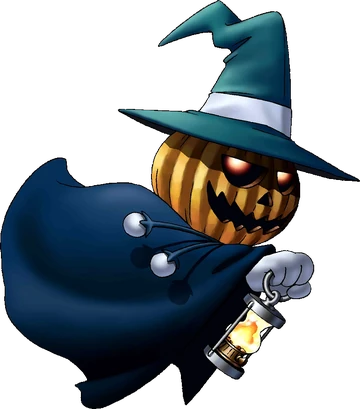
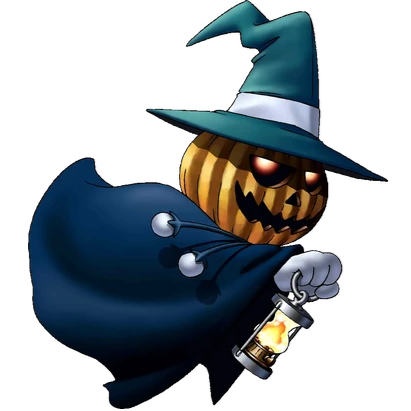
Very large Jump in visuals. Sized the photos correctly for the squares. Added a display for the hoverd piece Added logic for a failover photo.

diff --git a/js/game.js b/js/game.js
@@ -12,27 +12,30 @@ export class Game {
         this.player1 = new Player("Aaron", 1);
         this.player2 = new Player("Ashton", 2);
         this.turn = this.player1;
-
+        
         //create callback methods
         this.highlightCell = null;
         this.unhighlightCell = null;
-        this.drawBoard = null;
+        this.updateBoard = null;
         this.updateTurnDisplay = null;
         //method calls
-        this.initializeBoard();
-
+        
+        
         //log messages
         
         
-        console.log("Creating Board")
-        console.log("Creating Player 1")
-        console.log("Creating Plaer 2")
+        //console.log("Creating Board")
+        //console.log("Creating Player 1")
+        //console.log("Creating Plaer 2")
     }
     //Random Properties
     #selectedCell = [];
     #currentlySelected = false;
-
-
+    
+    initialize() {
+        this.updateTurnDisplay(this.turn)
+        this.initializeBoard();
+    }
 
     //method declarations
 
@@ -41,12 +44,59 @@ export class Game {
     }
 
     initializeBoard() {
+        //player 1 backrow
+        this.board.createPiece("Slime", this.player1, [0,0]);
+        this.board.createPiece("Saki Mitama", this.player1, [0,1]);
+        this.board.createPiece("Pyro Jack", this.player1, [0,2]);
+        this.board.createPiece("Preta", this.player1, [0,3]);
+        this.board.createPiece("Pixie", this.player1, [0,4]);
+        this.board.createPiece("Nigi Mitama", this.player1, [0,5]);
+        this.board.createPiece("Mokoi", this.player1, [0,6]);
+        this.board.createPiece("Mandrake", this.player1, [0,7]);
+        //player 1 front row
+        this.board.createPiece("Lilim", this.player1, [1,0]);
+        this.board.createPiece("Kusi Mitama", this.player1, [1,1]);
+        this.board.createPiece("Jack Frost", this.player1, [1,2]);
+        this.board.createPiece("Hua Po", this.player1, [1,3]);
+        this.board.createPiece("Black Ooze", this.player1, [1,4]);
+        this.board.createPiece("Ara Mitama", this.player1, [1,5]);
+        this.board.createPiece("Angel", this.player1, [1,6]);
+        this.board.createPiece("Ame-no-Uzume", this.player1, [1,7]);
+
+
+
+
+        //player 2 front row
+        this.board.createPiece("Lucifer", this.player2, [6,0]);
+        this.board.createPiece("Lucifer", this.player2, [6,1]);
+        this.board.createPiece("Lucifer", this.player2, [6,2]);
+        this.board.createPiece("Lucifer", this.player2, [6,3]);
+        this.board.createPiece("Lucifer", this.player2, [6,4]);
+        this.board.createPiece("Lucifer", this.player2, [6,5]);
+        this.board.createPiece("Lucifer", this.player2, [6,6]);
+        this.board.createPiece("Lucifer", this.player2, [6,7]);
+        //player 2 backrow
+        this.board.createPiece("Lucifer", this.player2, [7,0]);
+        this.board.createPiece("Lucifer", this.player2, [7,1]);
+        this.board.createPiece("Lucifer", this.player2, [7,2]);
+        this.board.createPiece("Lucifer", this.player2, [7,3]);
+        this.board.createPiece("Lucifer", this.player2, [7,4]);
+        this.board.createPiece("Lucifer", this.player2, [7,5]);
+        this.board.createPiece("Lucifer", this.player2, [7,6]);
+        this.board.createPiece("Lucifer", this.player2, [7,7]);
+
+
+
+        /*////Old game creation logic. Keeping as a fallback
         for (let row = 0; row < 2; row++) {
             for (let column = 0; column < 8; column++) {
                 this.board.createPiece("Lucifer", this.player1, [row,column]);
                 this.board.createPiece("Succubus", this.player2, [7-row,column]);
             }
         }
+            */
+
+        this.updateBoard();
     }
 
 
@@ -154,6 +204,7 @@ export class Game {
 
 
     }
+
     changeTurn() {
         this.turn = this.turn == this.player1 ? this.player2 : this.player1
         this.updateTurnDisplay(this.turn);

diff --git a/js/display.js b/js/display.js
@@ -5,6 +5,11 @@ export class Display {
     this.color2 = "white"
     this.chessBoard = document.getElementById(element)
     this.turnDisplay = document.getElementById("turnDisplay")
+    this.hoveredPieceNameDisplay = document.getElementById("hoveredPieceNameDisplay")
+    this.hoveredPieceAttackDisplay = document.getElementById("hoveredPieceAttackDisplay")
+    this.hoveredPieceResistDisplay = document.getElementById("hoveredPieceResistDisplay")
+    this.hoveredPieceWeaknessDisplay = document.getElementById("hoveredPieceWeaknessDisplay")
+    this.hoveredPieceDescriptionDisplay = document.getElementById("hoveredPieceDescriptionDisplay")
     this.boardSize = 700;
     this.onCellClick = null;
     this.board = board
@@ -85,12 +90,58 @@ export class Display {
           let pieceTier = currentPiece.type.Tier;
           let pieceType = currentPiece.type.Tier;
           let pieceIcon = `./img/SMT Demons/Rank ${pieceTier}/${pieceName}.png`
-          console.log(pieceIcon)
           let piece = document.createElement("div");
+
+
           //styles the piece
           piece.classList.add("piece")
           piece.classList.add("player" + currentPiece.player.id)
-          piece.style.backgroundImage = `url("${pieceIcon}")`
+          
+          
+          //Sets up Hover Events
+          cell.addEventListener("mouseenter", (event) => {
+            let location = []
+            location[0] = event.currentTarget.id[0]
+            location[1] = event.currentTarget.id[2]
+            let hoveredPiece = this.board.getPiece(location)
+            this.hoveredPieceNameDisplay.innerText = "Name: " + hoveredPiece.type.Name
+            this.hoveredPieceAttackDisplay.innerText = "Attack Type:" + hoveredPiece.type.Attack_Type
+            this.hoveredPieceResistDisplay.innerText = "Resistance: " + hoveredPiece.type.Resistance
+            this.hoveredPieceWeaknessDisplay.innerText = "Weakness: " + hoveredPiece.type.Weakness
+            this.hoveredPieceDescriptionDisplay.innerText = "Description: " + hoveredPiece.type.Description
+          })  
+
+
+
+          cell.addEventListener("mouseleave", () => {
+            this.hoveredPieceNameDisplay.innerText = "Name:"
+            this.hoveredPieceAttackDisplay.innerText = "Attack Type:"
+            this.hoveredPieceResistDisplay.innerText = "Resistance: "
+            this.hoveredPieceWeaknessDisplay.innerText = "Weakness: "
+            this.hoveredPieceDescriptionDisplay.innerText = "Description: "
+          })  
+
+          
+
+          
+
+
+
+
+
+          //preLoads the image to make sure that it works before setting the image. If it doesnt work then you get the default pawn image.
+          const img = new Image();
+            img.onload = () => {
+              // file exists, safe to use
+              piece.style.backgroundImage = `url("${pieceIcon}")`;
+            };
+            img.onerror = () => {
+              // file not found, use fallback
+              piece.style.backgroundImage = `url("./img/SMT Demons/Rank 1/Pawn.png")`;
+            };
+            img.src = pieceIcon;
+
+          
           //Adds piece
           cell.appendChild(piece)
 
@@ -103,8 +154,8 @@ export class Display {
     let turnString = `Current Turn: ${turn.name}` 
     this.turnDisplay.innerText = turnString;
   }
-
 }
+
 
 
 

diff --git a/js/demons.js b/js/demons.js
@@ -557,51 +557,6 @@ const demonString = `[
     "Weakness": "All",
     "Skill": "-",
     "Description": "-"
-  },
-  {
-    "Name": "Rook",
-    "Tier": 1,
-    "Attack_Type": "Almighty",
-    "Resistance": "-",
-    "Weakness": "All",
-    "Skill": "-",
-    "Description": "-"
-  },
-  {
-    "Name": "Knight",
-    "Tier": 1,
-    "Attack_Type": "Almighty",
-    "Resistance": "-",
-    "Weakness": "All",
-    "Skill": "-",
-    "Description": "-"
-  },
-  {
-    "Name": "Bishop",
-    "Tier": 1,
-    "Attack_Type": "Almighty",
-    "Resistance": "-",
-    "Weakness": "All",
-    "Skill": "-",
-    "Description": "-"
-  },
-  {
-    "Name": "Queen",
-    "Tier": 1,
-    "Attack_Type": "Almighty",
-    "Resistance": "-",
-    "Weakness": "All",
-    "Skill": "-",
-    "Description": "-"
-  },
-  {
-    "Name": "King",
-    "Tier": 1,
-    "Attack_Type": "Almighty",
-    "Resistance": "-",
-    "Weakness": "All",
-    "Skill": "-",
-    "Description": "-"
   }
 ]`
 

diff --git a/index.html b/index.html
@@ -8,9 +8,16 @@
     </head>
     <body>
         <div id="gameContainer">
-            <div id="chessBoard"></div>
             <h1 id="turnDisplay"></h1>
-            <h3 id="logBox"></h3>
+            <div id="chessBoard"></div>
+            <div id="hoverSelectionBox">
+                <h3 id="hoveredPieceNameDisplay">Name: </h3>
+                <h3 id="hoveredPieceAttackDisplay">Attack Type:</h3>
+                <h3 id="hoveredPieceResistDisplay">Resistance: </h3>
+                <h3 id="hoveredPieceWeaknessDisplay">Weakness: </h3>
+                <h3 id="hoveredPieceDescriptionDisplay">Description: </h3>
+            </div>
+
         </div>
     </body>
 </html>

diff --git a/js/piece.js b/js/piece.js
@@ -5,7 +5,13 @@ export class Piece {
     constructor(pieceType, player) {
         //pieceType is a string that will be used to find the correct piece type frin Demons.js
         this.type = demonData.find(type => type["Name"] === pieceType)
+            || demonData.find(type => type["Name"] === "Pawn");
+
         //player is a player object
         this.player = player;
+    }
+
+    getName() {
+        return this.type.Name;
     }
 }

diff --git a/js/board.js b/js/board.js
@@ -12,7 +12,7 @@ export class Board {
         let piece = new Piece(type, player)
         this.grid[location[0]][location[1]] = piece;
         
-        console.log(`Created a new ${piece.type.Name} at ${location[0]} , ${location[1]}`)
+        //console.log(`Created a new ${piece.getName()} at ${location[0]} , ${location[1]}`)
     }
 
     getPiece(location) {

diff --git a/style.css b/style.css
@@ -52,7 +52,7 @@ body {
 .piece {
     width: 80%;
     height: 80%;
-    background-size: cover;
+    background-size: 100% 100%;
 
 }
 
@@ -66,3 +66,6 @@ body {
     background-blend-mode: multiply;
 }
 
+#turnDisplay {
+    text-align: center;
+}

diff --git a/js/main.js b/js/main.js
@@ -25,6 +25,8 @@ game.updateTurnDisplay = (turn) => {
     display.updateTurnDisplay(turn);
 }
 
+game.initialize()
+
 console.log(`Created display ${display}`)
 console.log(`Created game ${game}`)
 
